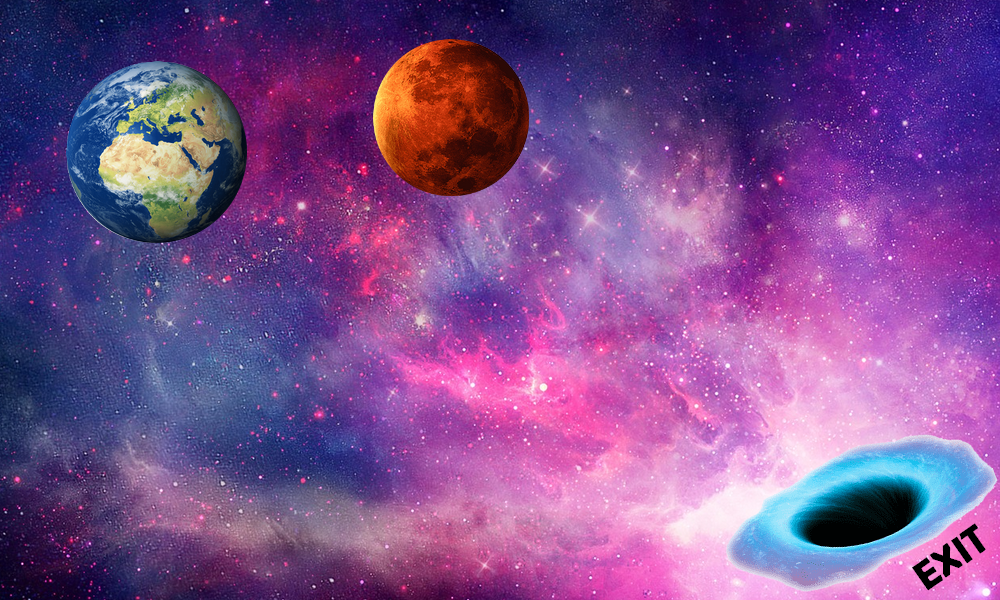
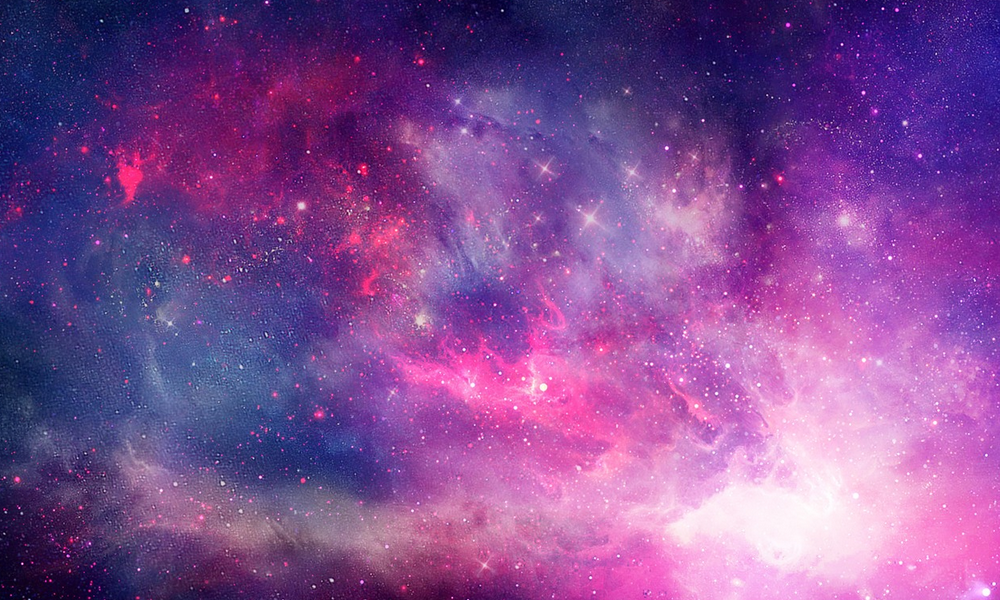
Planetas agregados

Changed region(s): [[0.713, 0.72, 1.0, 0.99], [0.062, 0.09, 0.248, 0.42], [0.372, 0.06, 0.527, 0.33]]

diff --git a/src/menu.py b/src/menu.py
@@ -13,12 +13,27 @@ class Aplicacion:
         self.canvas.pack(expand=True, fill= BOTH)
         background= ImageTk.PhotoImage(file="src/images/background.png")
         self.canvas.create_image(0, 0, image=background, anchor="nw")
+        
+        #Creacion de planetas
+        tierra_image = ImageTk.PhotoImage(file="src/images/tierra.png")
+        self.ovni=self.canvas.create_image(50, 150, image=tierra_image, anchor="w")
+
+        venus_image = ImageTk.PhotoImage(file="src/images/venus.png")
+        self.ovni=self.canvas.create_image(100, 300, image=venus_image, anchor="w")
+
+        marte_image = ImageTk.PhotoImage(file="src/images/marte.png")
+        self.ovni=self.canvas.create_image(200, 50, image=marte_image, anchor="w")
+
+        urano_image = ImageTk.PhotoImage(file="src/images/urano.png")
+        self.ovni=self.canvas.create_image(500, 350, image=urano_image, anchor="w")
+
 
         #Creamos la entidad que se desplaza por el lobby
         ovni_image = ImageTk.PhotoImage(file="src/images/ovni.png")
-        self.ovni=self.canvas.create_image(200, 200, image=ovni_image, anchor="w")
+        self.ovni=self.canvas.create_image(500, 300, image=ovni_image, anchor="w")
         self.ventana.bind("<KeyPress>", self.presion_tecla)
-        
+
+
         self.ventana.resizable(False, False)
         self.ventana.mainloop()
 
